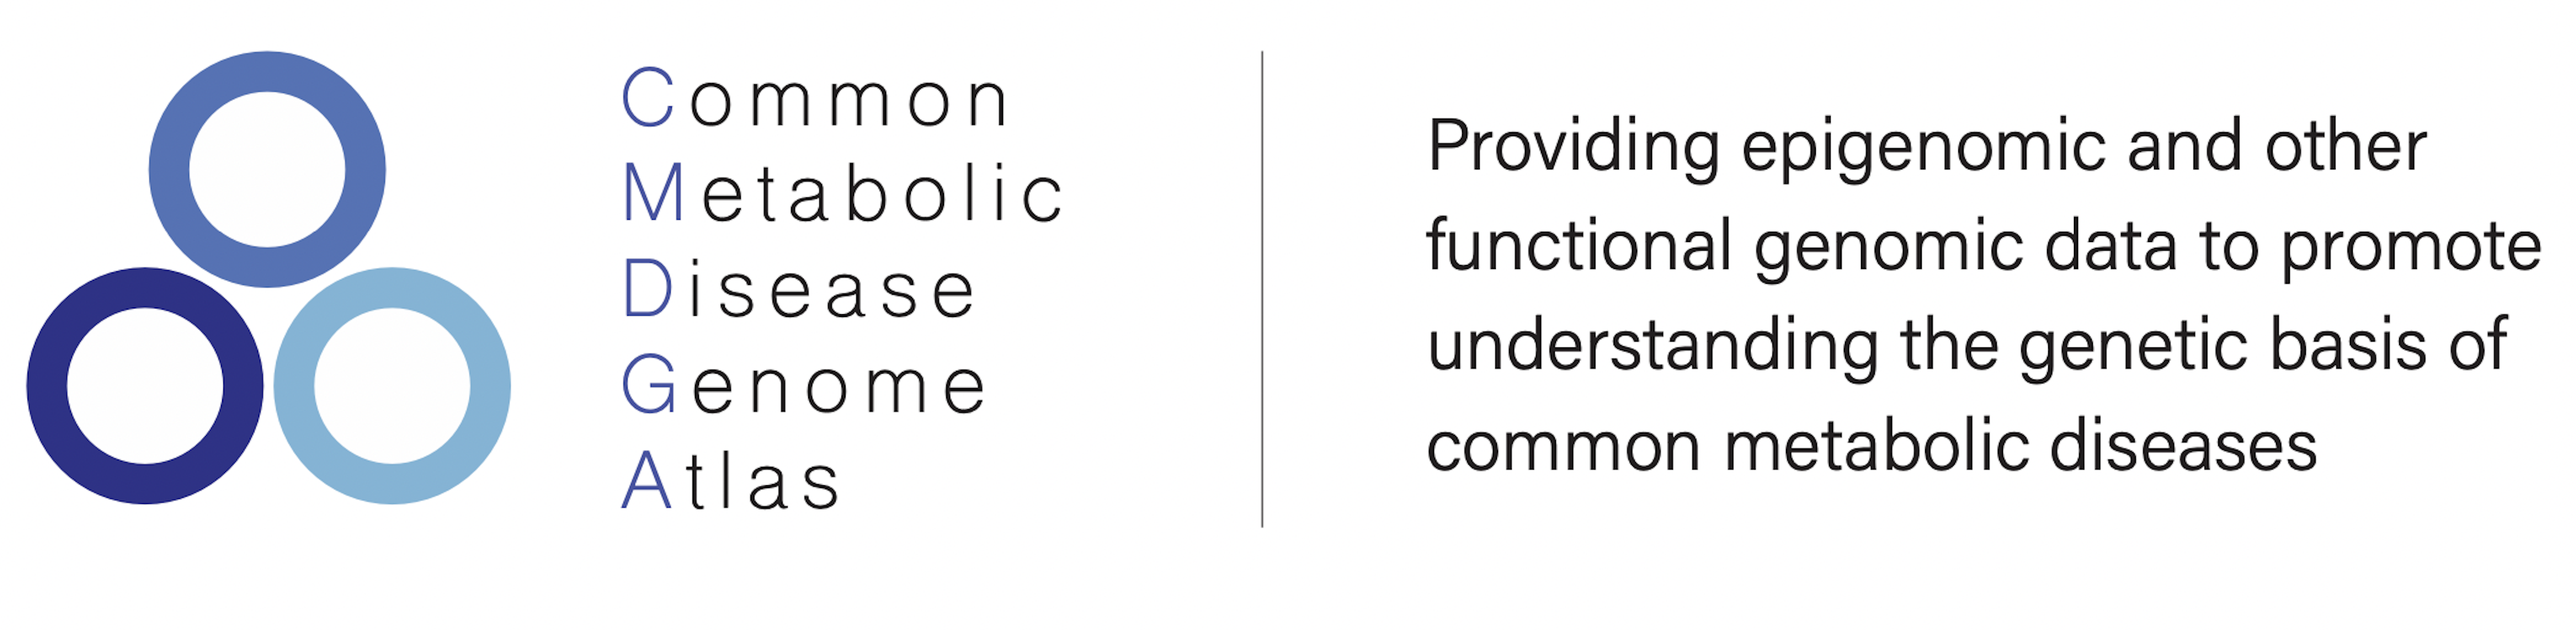
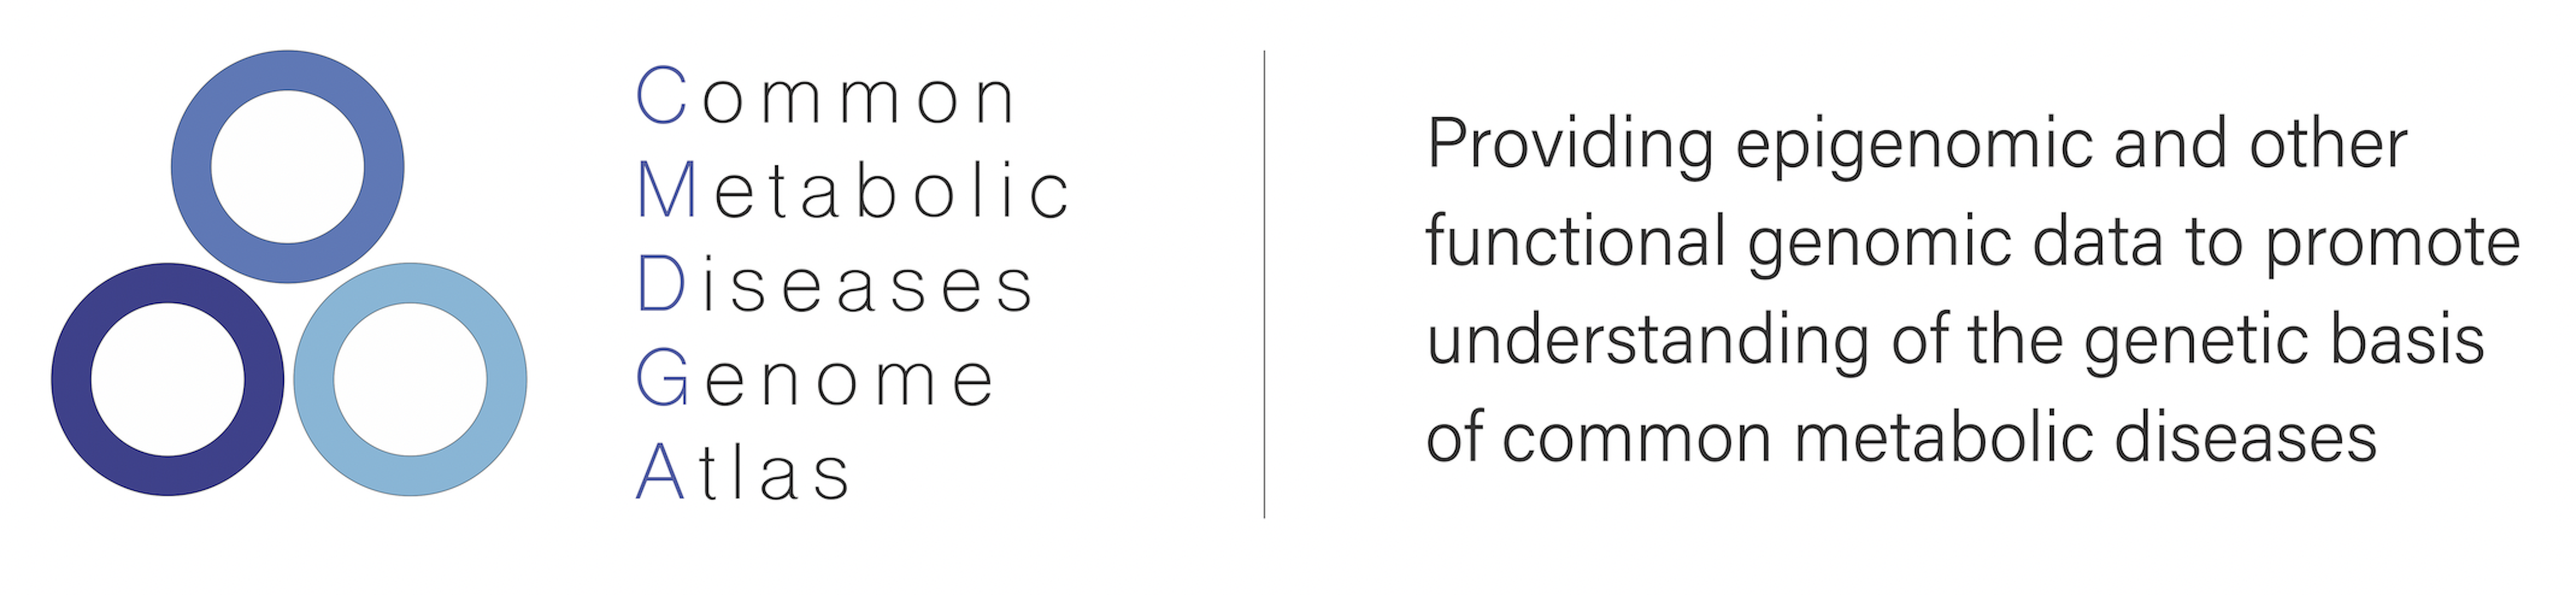
cosmetics - site name

diff --git a/src/encoded/static/components/errors.js b/src/encoded/static/components/errors.js
@@ -81,10 +81,10 @@ const LoginDenied = (props) => {
             <div className="row">
                 <div className="col-sm-12">
                     <h2>Our Apologies!</h2>
-                    <p>The email address you have provided us does not match any user of the Common Metabolic Disease Genome Atlas.</p>
+                    <p>The email address you have provided us does not match any user of the Common Metabolic Diseases Genome Atlas.</p>
                     <p>As you know, we have recently changed our login system.</p>
 
-                    <p>The Common Metabolic Disease Genome Atlas now uses a variety of common identity providers to verify you are who say you are.<br />
+                    <p>The Common Metabolic Diseases Genome Atlas now uses a variety of common identity providers to verify you are who say you are.<br />
                         The email address you use as your &ldquot;id&rdquot; must match exactly the email address in our system.</p>
 
                     <p>Please be aware that login access (to unreleased data) is available only to AMP Consortium members.</p>

diff --git a/src/encoded/static/components/news.js b/src/encoded/static/components/news.js
@@ -384,7 +384,7 @@ const News = (props) => {
     return (
         <Panel addClasses="news-blank">
             <h2>No matching news items</h2>
-            <a href="/news/">Latest Common Metabolic Disease Genome Atlas News</a>
+            <a href="/news/">Latest Common Metabolic Diseases Genome Atlas News</a>
         </Panel>
     );
 };

diff --git a/src/encoded/static/components/app.js b/src/encoded/static/components/app.js
@@ -14,7 +14,7 @@ import Home from './home';
 import newsHead from './page';
 
 const portal = {
-    portal_title: 'Common Metabolic Disease Genome Atlas',
+    portal_title: 'Common Metabolic Diseases Genome Atlas',
     global_sections: [
         {
             id: 'about',

diff --git a/src/encoded/root.py b/src/encoded/root.py
@@ -47,7 +47,7 @@ def acl_from_settings(settings):
 class EncodedRoot(Root):
     properties = {
         'title': 'Home',
-        'portal_title': 'Common Metabolic Disease Genome Atlas',
+        'portal_title': 'Common Metabolic Diseases Genome Atlas',
     }
 
     @reify
